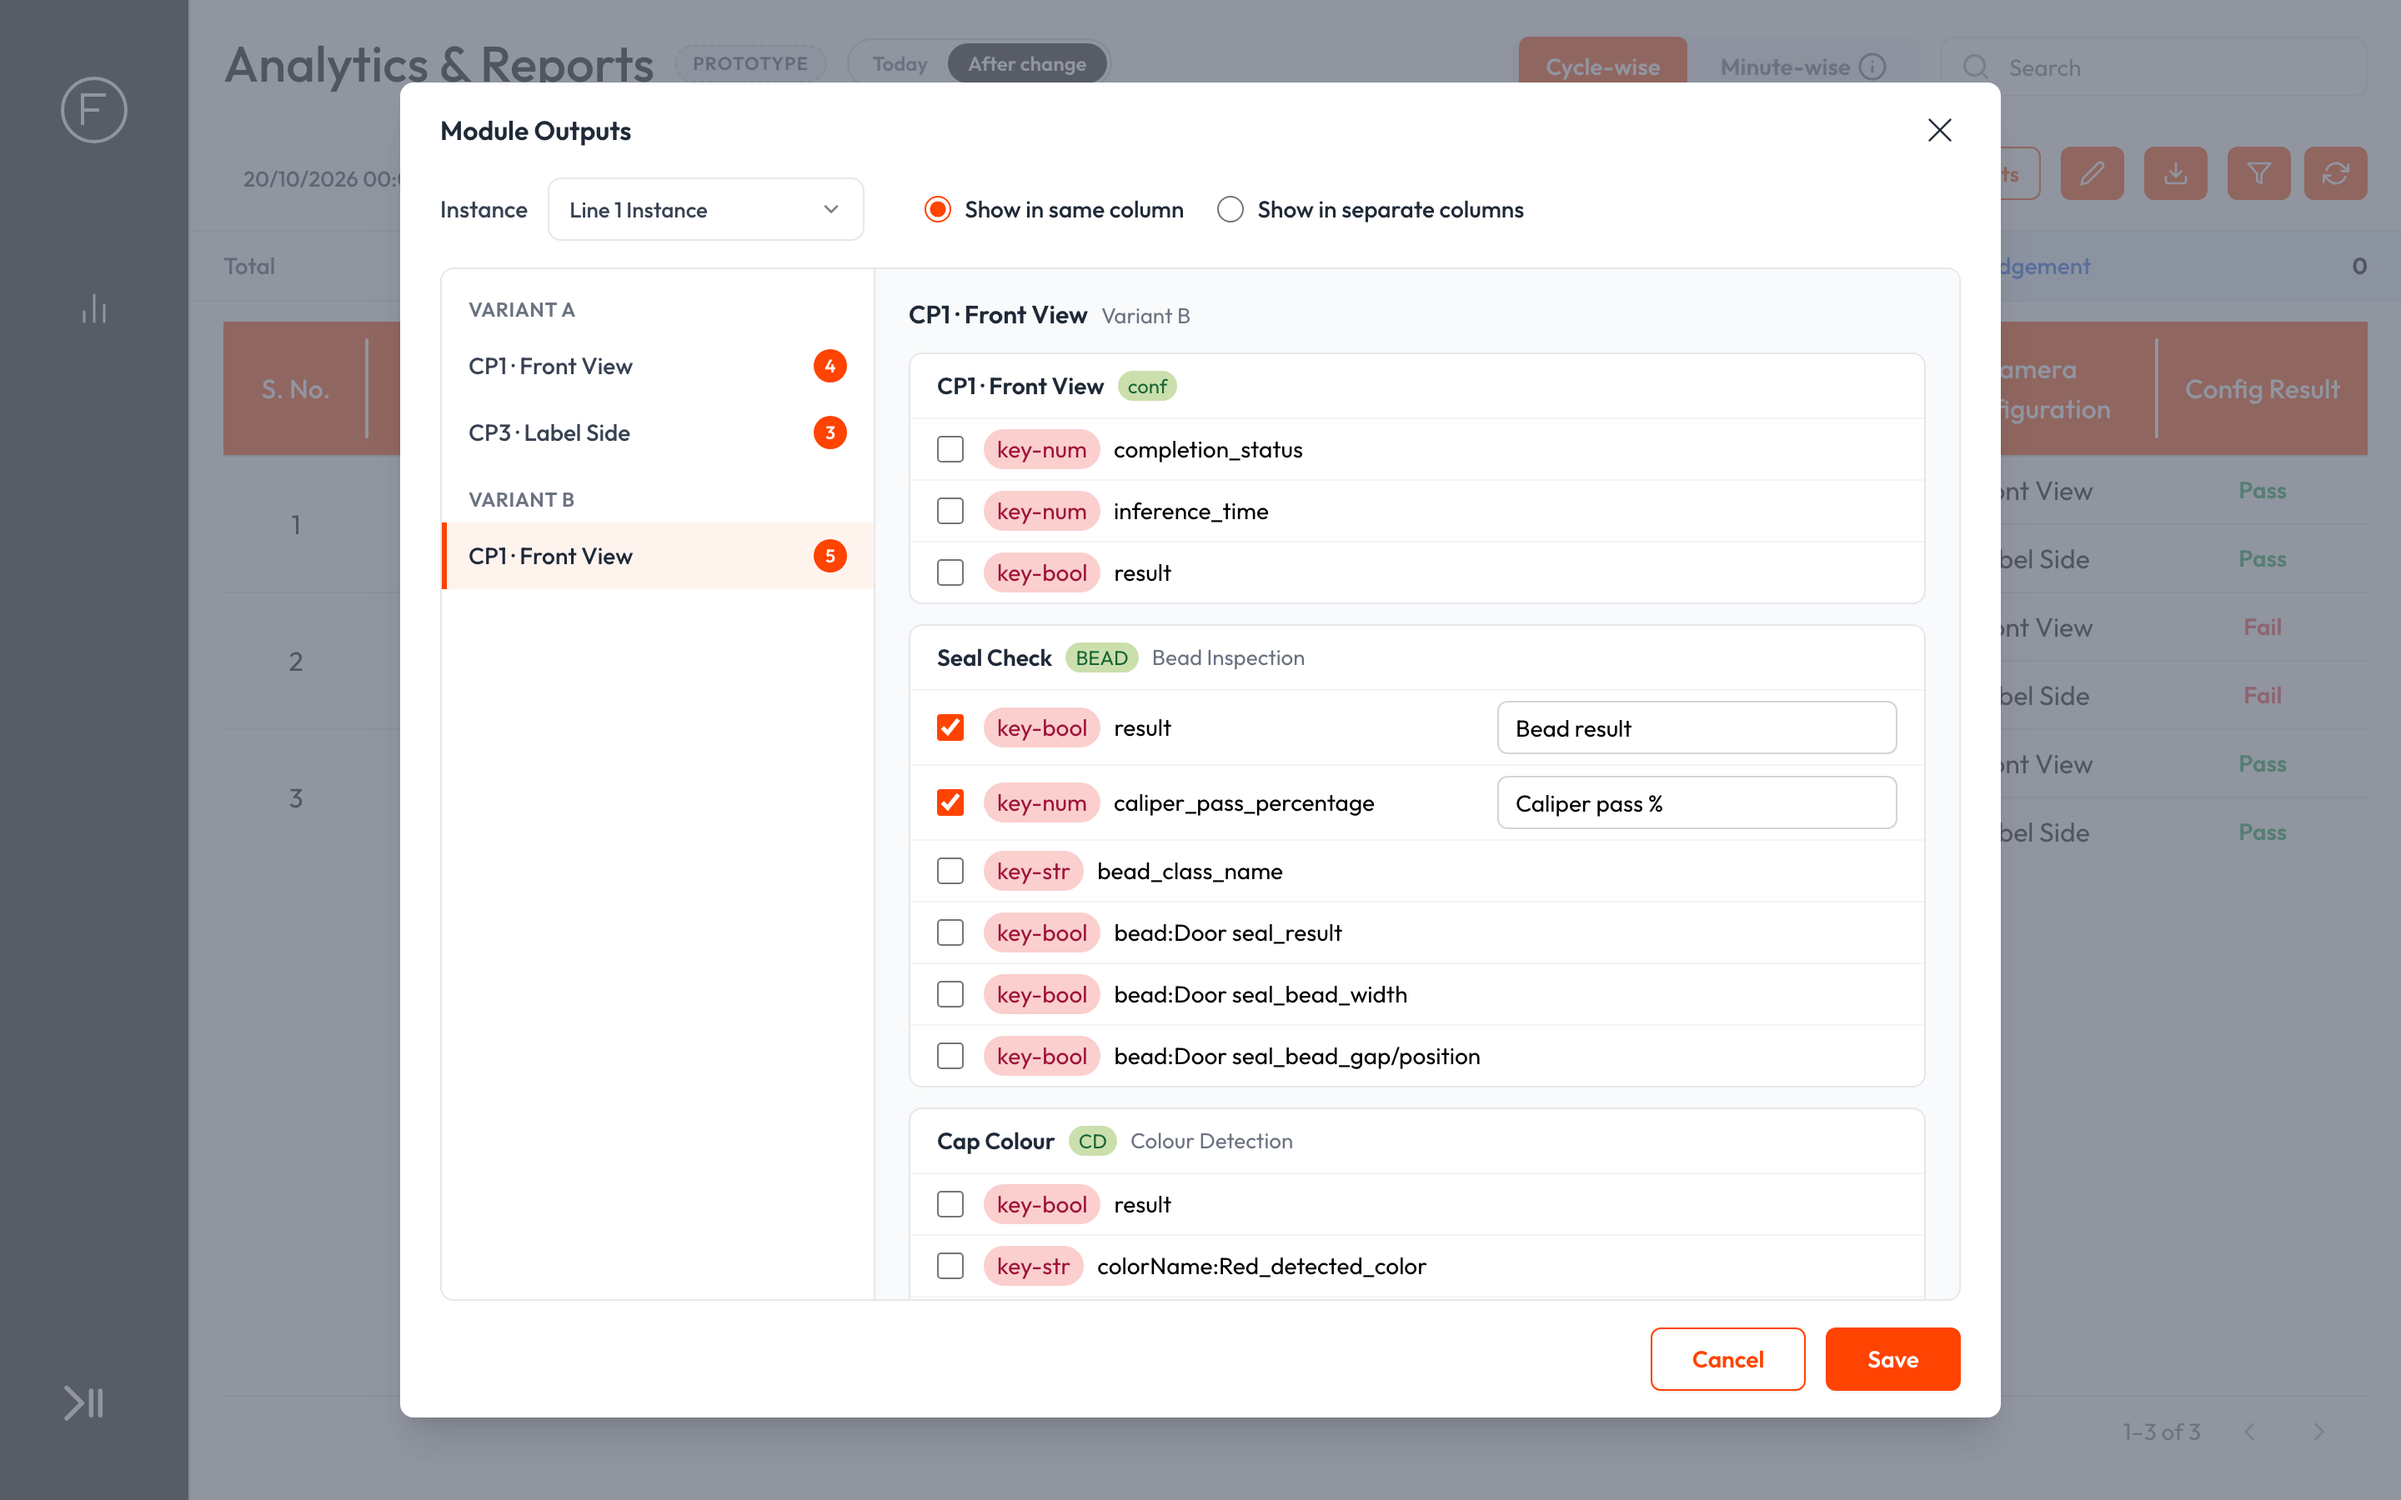
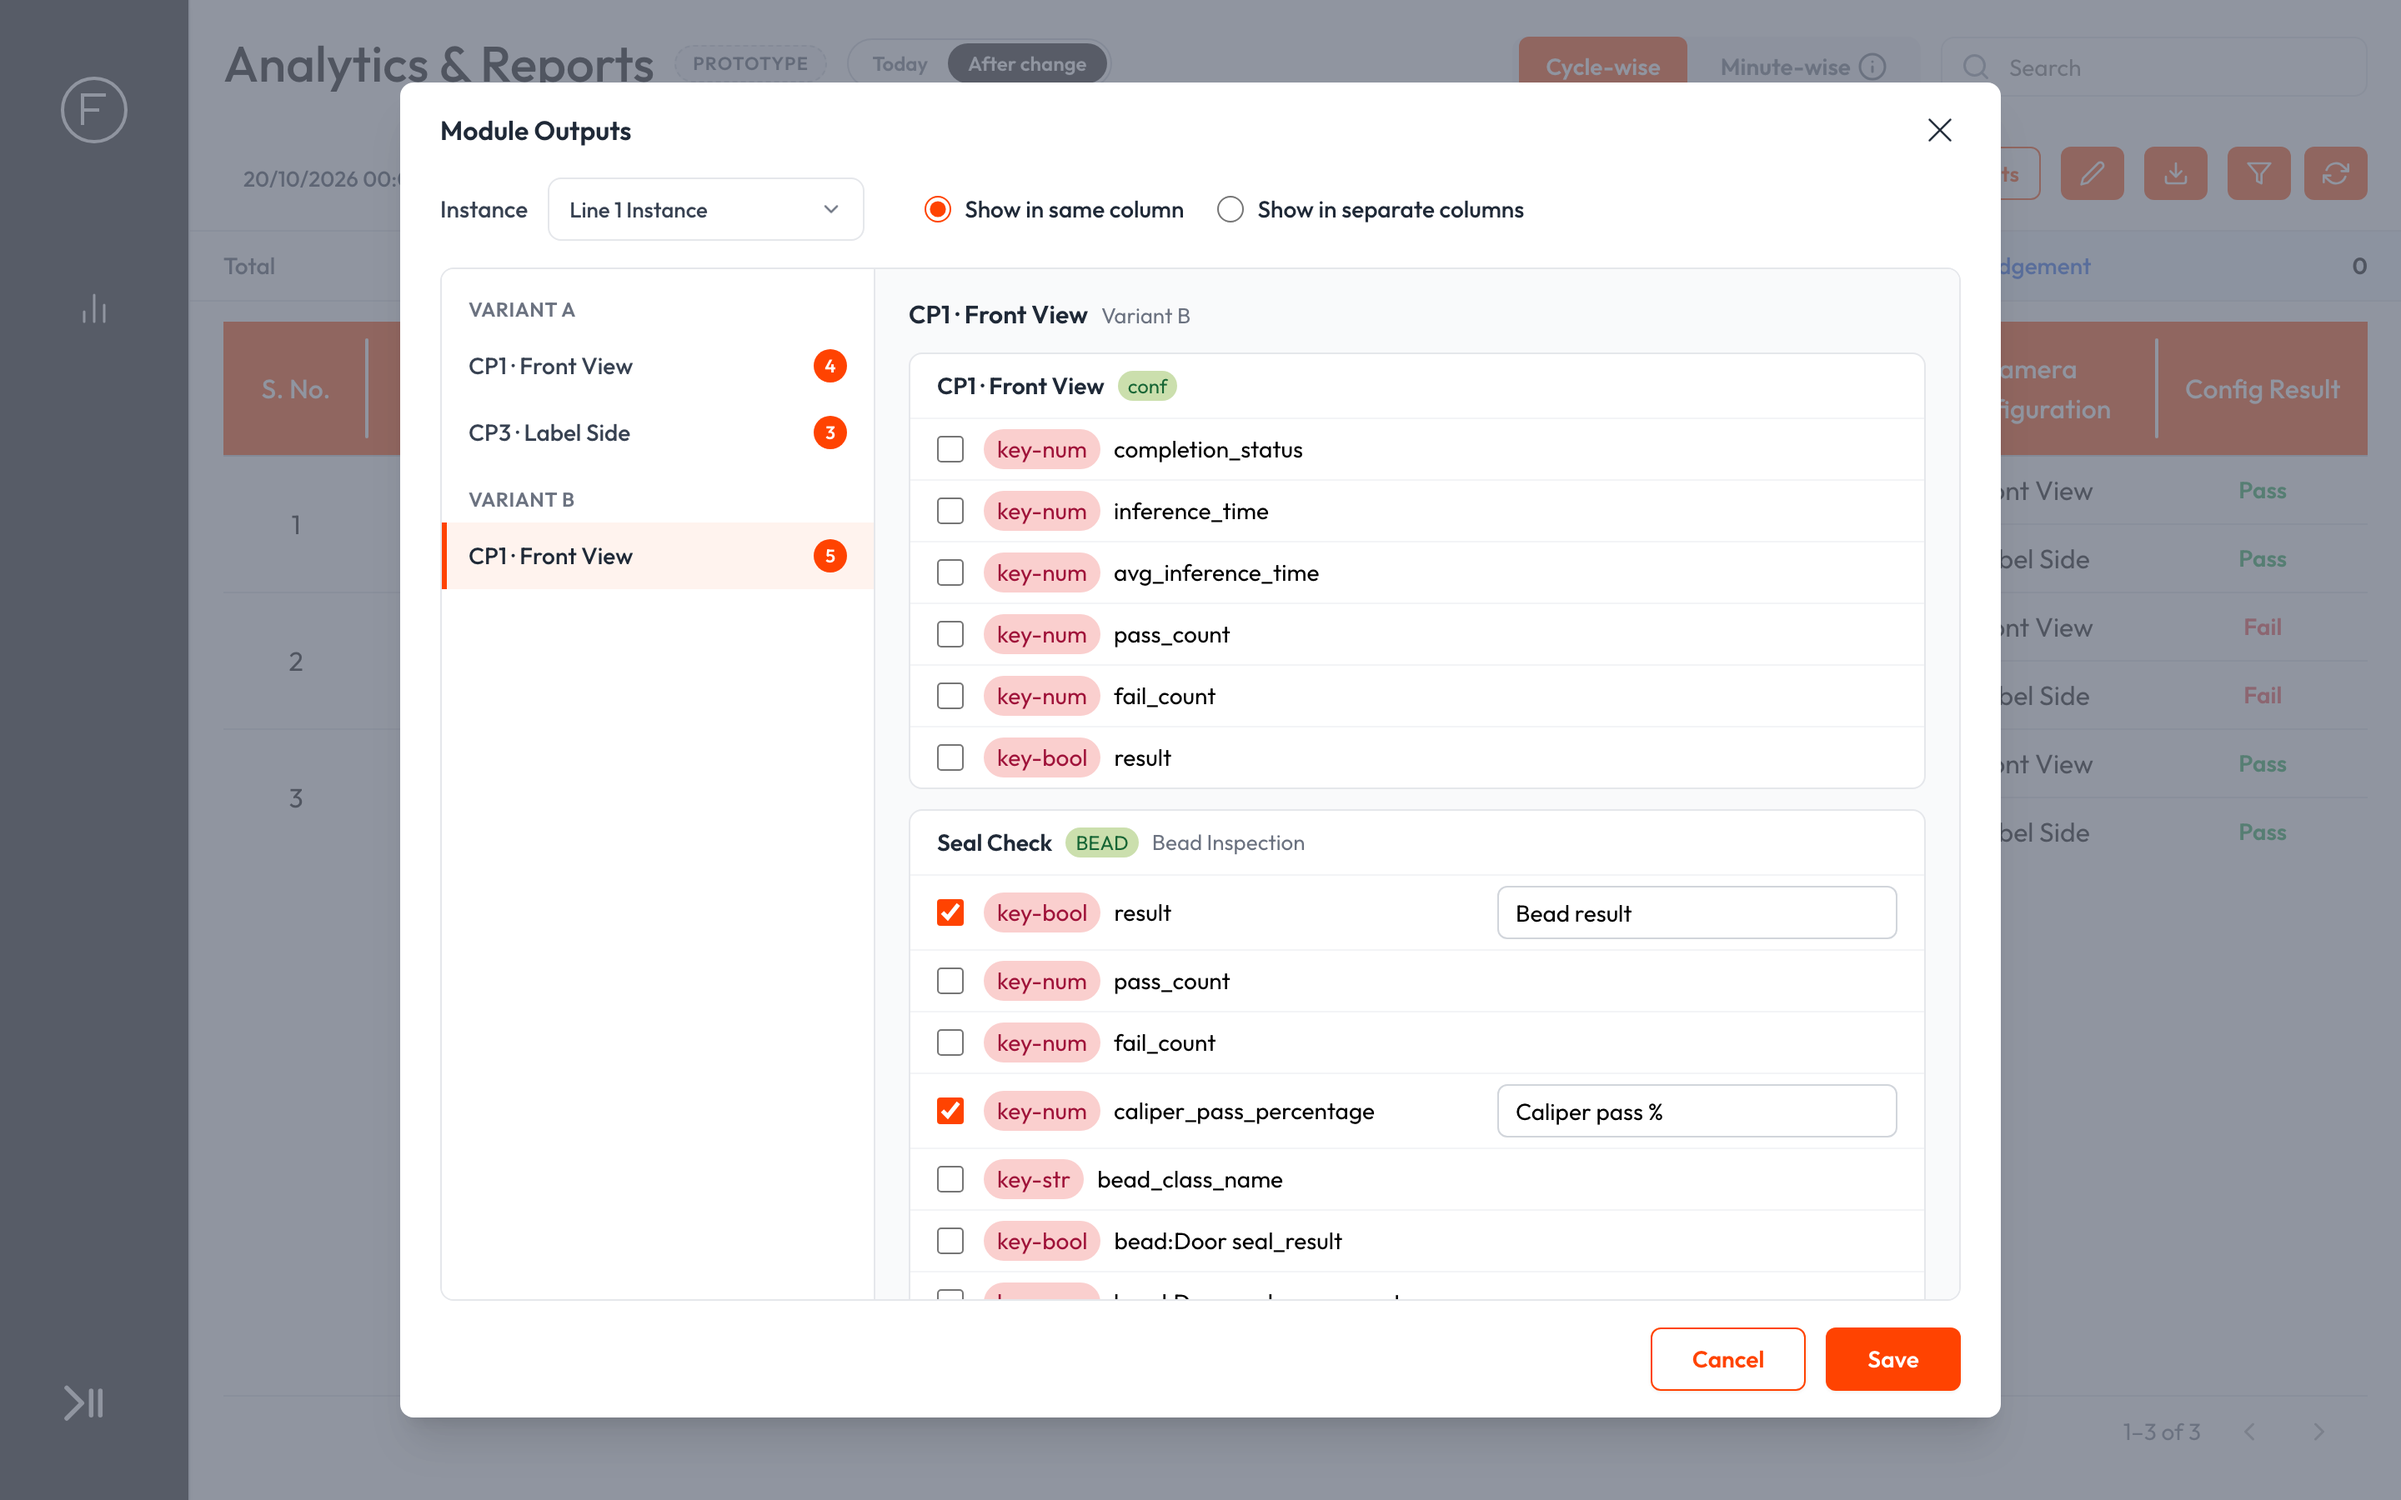
Module Outputs: running totals offered again, Edge Search per-line keys

diff --git a/shared.js b/shared.js
@@ -21,28 +21,33 @@
   // ---------- Edge system keys each capture offers (systemKeyDefinition.ts) ----------
   // t = datatype (1 bool, 2 str, 3 num); s = suffix exactly as stored; sample = Display Name in the sample setup (ticked).
   const K = (t, s, sample) => ({ t, s, sample: sample || null });
-  // Keys that add up or average across cycles (pass_count, fail_count, count_till_now, avg_inference_time) are not offered.
-  const modKeys = () => [K(1, 'result')];
+  const modKeys = () => [K(1, 'result'), K(3, 'pass_count'), K(3, 'fail_count')];
   const confCard = (cap) => ({ name: `${cap.pos} · ${cap.name}`, code: 'conf', conf: true, keys: [
-    K(3, 'completion_status'), K(3, 'inference_time'), K(1, 'result')] });
-  const clsKeys = (cls, countName) => ({ name: cls, keys: [K(1, 'result'), K(3, 'current_count', countName)] });
+    K(3, 'completion_status'), K(3, 'inference_time'), K(3, 'avg_inference_time'),
+    K(3, 'pass_count'), K(3, 'fail_count'), K(1, 'result')] });
+  const clsKeys = (cls, countName) => ({ name: cls, keys: [K(1, 'result'), K(3, 'current_count', countName),
+    K(3, 'count_till_now')] });
   // Dimensions: the same five variant-level keys, listed under each capture the dimension measures.
   const dimCard = (name, sample, cross) => ({ id: 'DIM:' + name, name, type: 'Dimensions', code: 'DIM', cross: cross || null, keys: [
     K(1, 'dim_result'), K(3, 'dim_predicted_value', sample), K(2, 'dim_unit_used'), K(2, 'dim_process'), K(2, 'dim_current_gt')] });
   const seKeys = (shape) => [K(3, `shape:${shape}_angle`), K(3, `shape:${shape}_length`), K(3, `shape:${shape}_error_pct`)];
+  // Edge Search: error % plus the per-line keys Edge now registers (lines 1 … the shape's maximum results).
+  const edgeSearchKeys = (shape, lines) => [K(3, `shape:${shape}_error_pct`)].concat(
+    Array.from({ length: lines }, (_, i) => [K(3, `shape:${shape}_line:${i + 1}_angle`), K(3, `shape:${shape}_line:${i + 1}_length`)]).flat());
 
   const A_CP1 = [
     { name: 'Fastener Check', type: 'Object Detection & Classification', code: 'ODC', keys: modKeys(),
       classes: [clsKeys('Screw', 'Screw count'), clsKeys('Washer', 'Washer count')] },
     { name: 'Slot Check', type: 'Image Classification', code: 'IC', keys: modKeys().concat([
       K(2, 'detected_class (Slot 1)', 'Slot 1 class'), K(2, 'detected_class (Slot 2)', 'Slot 2 class'), K(2, 'correct_class')]) },
-    { name: 'Bracket Edge', type: 'Shape Extractor', code: 'SE', keys: seKeys('Bracket') },
+    { name: 'Bracket Edge', type: 'Shape Extractor', code: 'SE', lines: true, keys: edgeSearchKeys('Bracket', 2) },
     // Cross-capture: measured from Bracket Edge here to Label Edge in CP3; ticked under CP3 only in the sample.
     dimCard('Distance_LabelGap', null, 'Front View, Label Side'),
   ];
   const A_CP3 = [
     { name: 'Serial Reader', type: 'OCR', code: 'OCR', keys: modKeys().concat([
-      K(2, 'detected_text', 'Serial No.'), K(2, 'labelName:Serial_gt_text'), K(1, 'labelName:Serial_result')]) },
+      K(2, 'detected_text', 'Serial No.'), K(2, 'labelName:Serial_gt_text'), K(1, 'labelName:Serial_result'),
+      K(2, 'labelName:Serial_pass_count'), K(2, 'labelName:Serial_fail_count')]) },
     { name: 'QR Reader', type: 'Code Reader', code: 'CR', keys: modKeys().concat([
       K(2, 'detected_string', 'QR code'), K(2, 'gt_string')]) },
     { name: 'Surface Check', type: 'Segmentation', code: 'SEG', keys: [] },
@@ -51,12 +56,13 @@
   ];
   const B_CP1 = [
     { name: 'Seal Check', type: 'Bead Inspection', code: 'BEAD', keys: [
-      K(1, 'result', 'Bead result'),
+      K(1, 'result', 'Bead result'), K(3, 'pass_count'), K(3, 'fail_count'),
       K(3, 'caliper_pass_percentage', 'Caliper pass %'), K(2, 'bead_class_name'), K(1, 'bead:Door seal_result'),
+      K(3, 'bead:Door seal_pass_count'), K(3, 'bead:Door seal_fail_count'),
       K(1, 'bead:Door seal_bead_width'), K(1, 'bead:Door seal_bead_gap/position')] },
     { name: 'Cap Colour', type: 'Colour Detection', code: 'CD', keys: modKeys().concat([
-      K(2, 'colorName:Red_detected_color'), K(1, 'colorName:Red_result'),
-      K(3, 'colorName:Red_distribution_percentage', 'Red coverage')]) },
+      K(2, 'colorName:Red_detected_color'), K(1, 'colorName:Red_result'), K(3, 'colorName:Red_pass_count'),
+      K(3, 'colorName:Red_fail_count'), K(3, 'colorName:Red_distribution_percentage', 'Red coverage')]) },
     { name: 'Hole Fit', type: 'Shape Extractor', code: 'SE', keys: [
       K(3, 'shape:Hole_radius', 'Hole radius'), K(3, 'shape:Hole_perimeter'), K(3, 'shape:Hole_area'),
       K(3, 'shape:Hole_circularity'), K(3, 'shape:Hole_convexity'),
@@ -153,7 +159,8 @@
       'ODC|result': b(odcOk), 'ODC|cls:Screw|result': b(odcOk), 'ODC|cls:Screw|current_count': String(screws),
       'ODC|cls:Washer|result': 'true', 'ODC|cls:Washer|current_count': '2',
       'IC|result': b(icOk), 'IC|detected_class (Slot 1)': 'Good', 'IC|detected_class (Slot 2)': slot2, 'IC|correct_class': 'Good',
-      'SE|shape:Bracket_angle': angle, 'SE|shape:Bracket_length': '184.30', 'SE|shape:Bracket_error_pct': '0.42' }, dimOut(gap));
+      'SE|shape:Bracket_error_pct': '0.42', 'SE|shape:Bracket_line:1_angle': angle, 'SE|shape:Bracket_line:1_length': '184.30',
+      'SE|shape:Bracket_line:2_angle': '-0.31', 'SE|shape:Bracket_line:2_length': '96.12' }, dimOut(gap));
   }
   function cp3Out(serial, code, ms, angle, gap) {
     const read = code !== '—';

diff --git a/reports.html b/reports.html
@@ -554,7 +554,7 @@ td.empty{padding:8px;text-align:center;font-size:16px;color:var(--label);backgro
   </div>
 </div>
 
-<script src="shared.js?v=20261026b"></script>
+<script src="shared.js?v=20261026c"></script>
 <script>
 (function () {
   const $ = (id) => document.getElementById(id);
@@ -664,7 +664,7 @@ td.empty{padding:8px;text-align:center;font-size:16px;color:var(--label);backgro
   const params = new URLSearchParams(location.search);
   const mode = MO.modeFromUrl();
   const rawState = params.get('state') || '';
-  const ALIAS = { reports: 'table', 'setup-empty': 'setup', setup: 'choose', 'setup-cross': 'choose', 'setup-more': 'more-modules', 'setup-more-end': 'more-modules' };
+  const ALIAS = { reports: 'table', 'setup-empty': 'setup', setup: 'choose', 'setup-cross': 'choose', 'setup-lines': 'choose', 'setup-more': 'more-modules', 'setup-more-end': 'more-modules' };
   const STEPS = ['table', 'setup', 'instance', 'choose', 'setup-separate', 'more-modules', 'restart', 'before-restart', 'column', 'separate', 'edit-table', 'search', 'no-permission'];
   let step = ALIAS[rawState] || rawState;
   if (!STEPS.includes(step)) step = mode === 'after' ? 'column' : 'table';
@@ -917,7 +917,7 @@ td.empty{padding:8px;text-align:center;font-size:16px;color:var(--label);backgro
     if (!M.inst || !M.sel) { $('capPane').innerHTML = ''; refreshErrors(); return; }
     const cap = CAP[M.sel];
     $('capPane').innerHTML = `<div class="pane-h"><b>${cap.pos} · ${cap.name}</b><span>${cap.variant}</span></div>` +
-      cap.cards.map((m) => `<section class="mcard"${m.cross ? ' data-cross="1"' : ''}><div class="mcard-h"><b>${esc(m.name)}</b>${chip('g', m.code)}${m.conf ? '' : `<span>${esc(m.type)}</span>`}` +
+      cap.cards.map((m) => `<section class="mcard"${m.cross ? ' data-cross="1"' : ''}${m.lines ? ' data-lines="1"' : ''}><div class="mcard-h"><b>${esc(m.name)}</b>${chip('g', m.code)}${m.conf ? '' : `<span>${esc(m.type)}</span>`}` +
         (m.cross ? `<span>· ${esc(m.cross)}</span><span class="bdg purple">⇄ CROSS-CAPTURE</span>` : '') + '</div>' +
         (m.rows.length ? m.rows.map((k, i) => {
           const groupStart = k.cls && i > 0 && m.rows[i - 1].cls !== k.cls;
@@ -1186,7 +1186,7 @@ td.empty{padding:8px;text-align:center;font-size:16px;color:var(--label);backgro
   if (after && step === 'setup') openModal('A-CP1');
   else if (after && step === 'instance') { openModal('A-CP1'); openInstPanel(); }
   else if (after && (step === 'choose' || step === 'setup-separate')) {
-    openModal('A-CP3');
+    openModal(rawState === 'setup-lines' ? 'A-CP1' : 'A-CP3');
     if (step === 'setup-separate' && M.inst) { Dr().mode = 'separate'; renderTop(); }
     showFirstTicked();
   } else if (after && step === 'more-modules') {
@@ -1205,6 +1205,7 @@ td.empty{padding:8px;text-align:center;font-size:16px;color:var(--label);backgro
   }
   // Separate columns step: start scrolled to the key columns at the right end.
   if (step === 'separate') $('tscroll').scrollLeft = $('tscroll').scrollWidth;
+  if (rawState === 'setup-lines') { const x = $('capPane').querySelector('[data-lines]'); if (x) $('capPane').scrollTop = x.offsetTop - $('capPane').offsetTop - 12; }
   if (rawState === 'setup-cross') { const x = $('capPane').querySelector('[data-cross]'); if (x) $('capPane').scrollTop = x.offsetTop - $('capPane').offsetTop - 12; }
   if (params.get('toast') === 'saved') toast('Module Outputs saved');
   // ?open=<cycle>:<result|raw>:<image> (1-based) opens the image viewer on load, e.g. ?open=2:result:2

diff --git a/excel.html b/excel.html
@@ -149,7 +149,7 @@ a.hl{color:#0563C1;text-decoration:underline}
     <span class="zm"><span>−</span><span class="bar"><b></b></span><span>+</span><span id="zoomPct">80%</span></span></div>
 </div>
 
-<script src="shared.js?v=20261026b"></script>
+<script src="shared.js?v=20261026c"></script>
 <script>
 (function () {
   const $ = (id) => document.getElementById(id);

diff --git a/index.html b/index.html
@@ -93,7 +93,7 @@
     const q = [];
     if (step.state) q.push('state=' + step.state);
     q.push('mode=' + mode);
-    q.push('v=20261026b');
+    q.push('v=20261026c');
     if (extra) Object.keys(extra).forEach((k) => q.push(k + '=' + encodeURIComponent(extra[k])));
     return step.file + '?' + q.join('&');
   }
